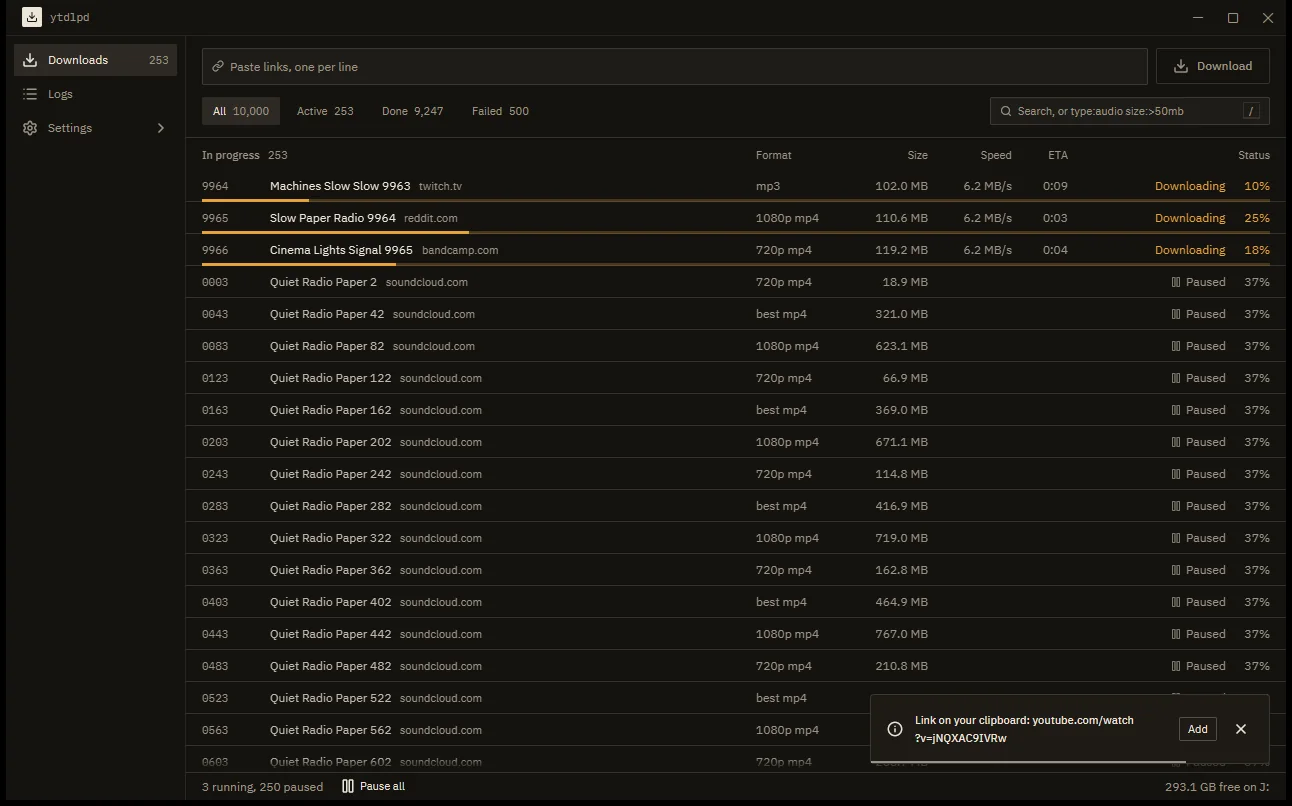
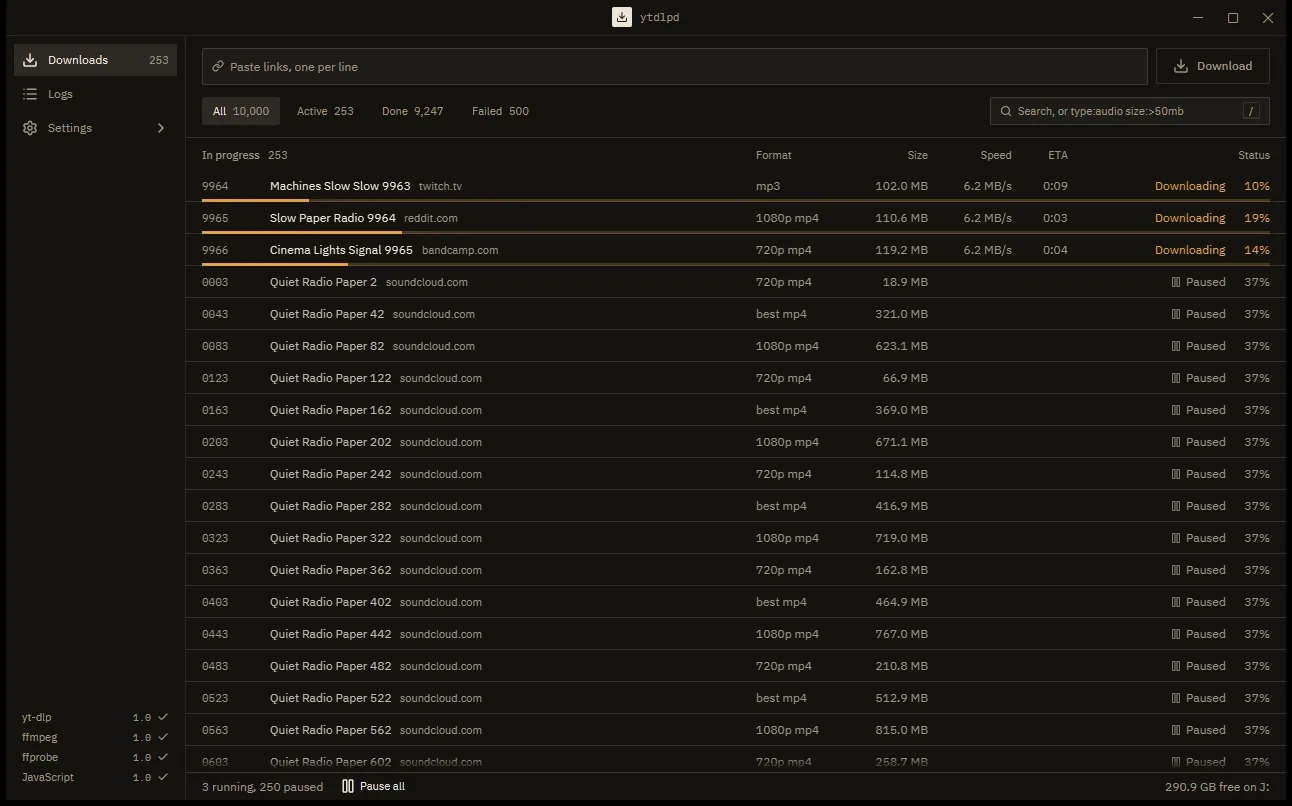
docs(web): recapture every screenshot with the current sidebar, tools block and site rules layout

diff --git a/apps/web/app/(home)/page.tsx b/apps/web/app/(home)/page.tsx
@@ -13,8 +13,8 @@ const plural = (n: number, one: string) => `${num(n)} ${one}${n === 1 ? '' : 's'
 // The three rows that are downloading in the capture: their rule's top edge and the share already drawn.
 const moving = [
   { top: '24.69%', from: '10%', dur: '9s' },
-  { top: '28.66%', from: '25%', dur: '7s' },
-  { top: '32.63%', from: '18%', dur: '11s' },
+  { top: '28.66%', from: '19%', dur: '7s' },
+  { top: '32.63%', from: '14%', dur: '11s' },
 ];
 
 const features = [
